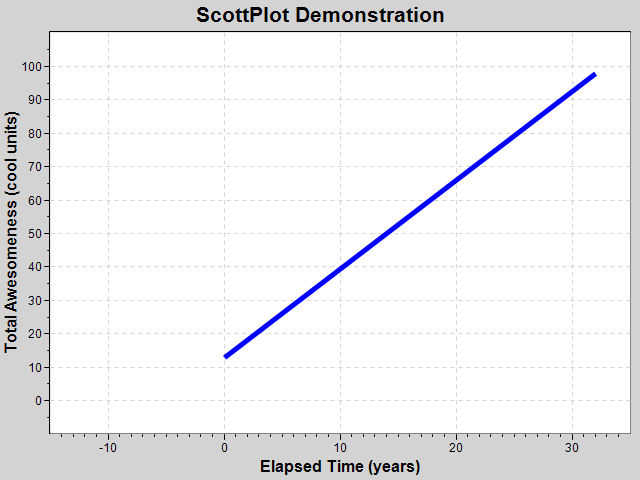
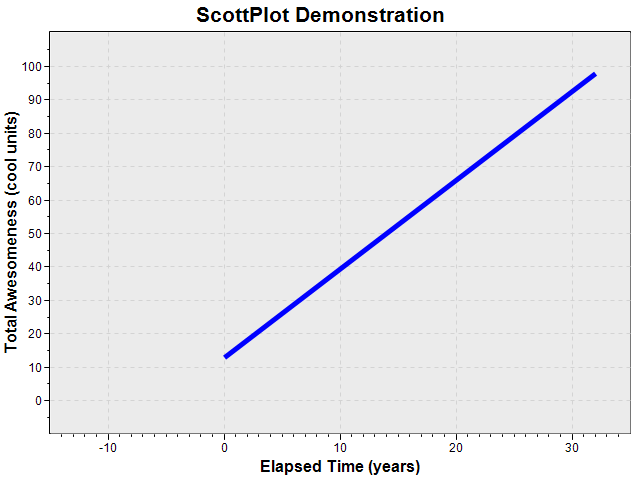
demo shows color changes

Changed region(s): [[0.0, 0.0, 1.0, 1.0]]

diff --git a/src/Examples/console/ConsoleApp1/Program.cs b/src/Examples/console/ConsoleApp1/Program.cs
@@ -16,6 +16,8 @@ namespace ConsoleApp1
             
             // create a new ScottPlot figure
             Figure fig = new Figure(640, 480);
+            fig.colorBg = Color.White;
+            fig.colorGraph = Color.FromArgb(255, 235, 235, 235);
             fig.title = "ScottPlot Demonstration";
             fig.xLabel = "Elapsed Time (years)";
             fig.yLabel = "Total Awesomeness (cool units)";
